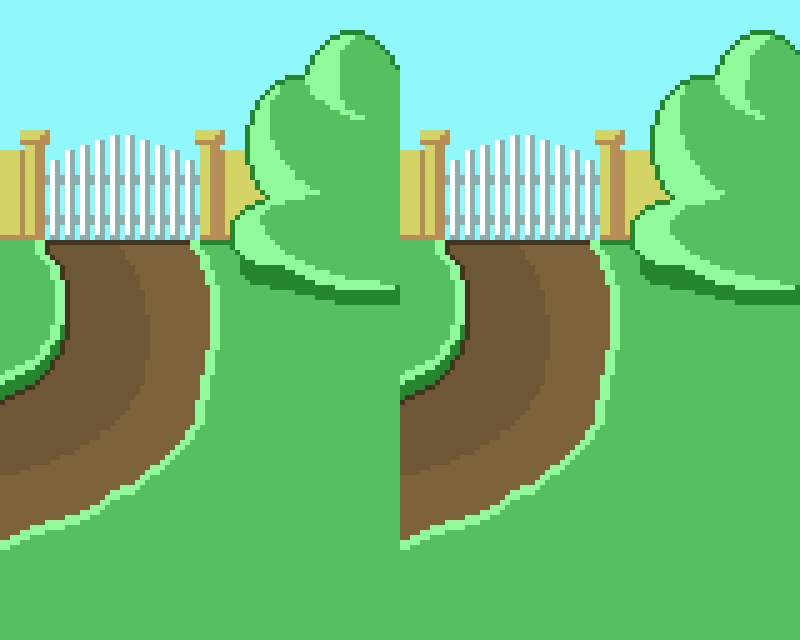
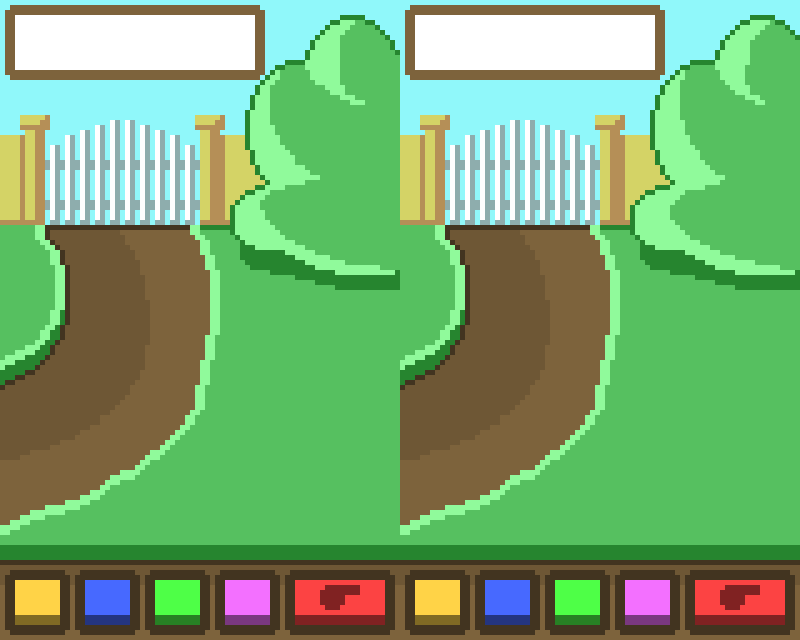
Game update
Creation des boutons, mise en place des événements et du game over

diff --git a/Ti_Game/index.html b/Ti_Game/index.html
@@ -5,9 +5,10 @@
 	<title>Ti Game</title>
 <style type="text/css">
 *{padding:0; margin:0;}
-body{background-color: #CF9FB8;
+body{background-color: #7A3880;
 	height:100vh; width: 100vw;
 	overflow: hidden;
+	transition:0.5s;
 }
 canvas{
     image-rendering: optimizeSpeed;
@@ -23,12 +24,12 @@ canvas#game {
 	transform: translate(-50%,-50%);
 	width: auto; height: auto;
 	max-width: 90vw; max-height:90vh;
-	border: 7px solid #7D349B;
+	border: 7px solid #eee;
     background-image:url("Img/Loader.png");
     background-repeat: no-repeat;
     background-position: 50% 50%;
     background-size: 90% auto;
-    background-color: #90F8FA;
+    background-color: #423420;
 }
 
 </style>
@@ -42,44 +43,64 @@ canvas#game {
 var canvas = document.getElementById("game");
 var ctx = canvas.getContext("2d");
 
+/* Canvas Onclick position */
+function getMousePos(canvas, evt) {
+    var rect = canvas.getBoundingClientRect();
+    return {
+      x: evt.clientX - rect.left,
+      y: evt.clientY - rect.top
+    };
+}
+canvas.addEventListener('click', function(evt) {
+    game_Event(getMousePos(canvas, evt));
+}, false);
+
 
 
 /* Images loading */
-var nbImgLoaded = 0, nbImg = 2;
+var nbImgLoaded = 0, nbImg = 3;
 
 var background_Img = new Image();
 var dog_Img = new Image();
+var color_Img = new Image();
 
 background_Img.onload = () => imgIsLoaded();
 dog_Img.onload = () => imgIsLoaded();
+color_Img.onload = () => imgIsLoaded();
 
 background_Img.src = 'Img/Background.png'; // https://qmisslin.github.io/Ti_Game/
 dog_Img.src = 'Img/Dog.png';
+color_Img.src = 'Img/Color.png';
 
 function imgIsLoaded(){
 	nbImgLoaded++;
 	if(nbImgLoaded == nbImg){
-		window.setTimeout(function (){ game_Loop()}, 0);
+		window.setTimeout(function (){ game_Loop()}, 1000);
 	}
 }
 
 /* Game */
 var game_Frame = 0;
-var background_Frame = 0;
-var dog_Frame = 0;
-
 var game_Speed = 100;
+
+var background_Frame = 0;
 var background_Speed = 25;
+
+var dog_Frame = 0;
 var dog_Speed = 5;
 var dog_Pos = {x:-165, y:0, d:1};
+
+var color_Frame = 0;
+var color_Speed = 100;
+var color_Value = 0;
 
 function randomInt(min, max){
 	return Math.floor(Math.random()*(max-min))+min;
 }
 function game_Loop(){
 	window.setTimeout(function (){
-		game_Frame = (game_Frame+1)%game_Speed;
-
+		
+		/* Background animation */
 		if(game_Frame%background_Speed === 0){
 			background_Frame=(background_Frame+1)%2;
 		}
@@ -90,19 +111,69 @@ function game_Loop(){
 			dog_Pos.x += -(dog_Pos.d*2-1)*15;
 		}
 		if(dog_Pos.x < -160 || dog_Pos.x > 400){
-			dog_Pos.y = randomInt(200,520);//200~520
+			
 			dog_Pos.d = (dog_Pos.d === 0)?1:0;
-			dog_Pos.x = (dog_Pos.d === 0)?-160:400;
+			if(dog_Pos.d === 0){
+				dog_Pos.x = -160;
+				dog_Pos.y = randomInt(140,445);//140~445
+			} else {
+				dog_Pos.x = 400;
+				dog_Pos.y = randomInt(185,445);//200~445
+			}
 		}
-		
 
-		ctx.drawImage(background_Img, 400 * background_Frame, 0, 400, 640, 0, 0, 400, 640);
-		ctx.drawImage(dog_Img, dog_Pos.d * 160,160 * dog_Frame, 160, 160, dog_Pos.x, dog_Pos.y, 160, 160);
 
-		window.requestAnimationFrame(game_Loop);
+		/* Color print animation */
+		if(game_Frame%color_Speed === 0){
+			color_Value = randomInt(0,16);
+		}
+
+		if(dog_Pos.x > 150 && dog_Pos.y < 185){
+			console.log("game over");
+
+		} else {
+			ctx.drawImage(background_Img, 400 * background_Frame, 0, 400, 640, 0, 0, 400, 640);
+			ctx.drawImage(dog_Img, dog_Pos.d * 160,160 * dog_Frame, 160, 160, dog_Pos.x, dog_Pos.y, 160, 160);
+			ctx.clearRect(15,15,240,55);
+			
+			/* Timer range */
+			ctx.fillStyle="rgb("+(255*game_Frame/100)+","+(255-255*(game_Frame/100))+",20)";
+			ctx.fillRect(15,65,240-(240*game_Frame/100),5);
+			ctx.drawImage(color_Img, 240 * (color_Value%4), 50 * Math.floor(color_Value/4),240,50,15,15,240,50);
+
+			window.requestAnimationFrame(game_Loop);
+		}
+
+		/* Increment game frame */
+		game_Frame = (game_Frame+1)%game_Speed;
 	}, 10);
 }
 
+function game_Event(mouse){
+	console.log(mouse);
+	if(mouse.y > 480){
+		if(mouse.x < 65){ // Yellow button
+			console.log("yellow");
+			document.body.style.backgroundColor = "#806A24";
+
+		} else if(mouse.x < 125){ // Blue button
+			console.log("blue");
+			document.body.style.backgroundColor = "#243580";
+
+		} else if(mouse.x < 185){ // Green button 
+			console.log("green");
+			document.body.style.backgroundColor = "#278024";
+
+		} else if(mouse.x < 240){ // Pink button
+			console.log("pink");
+			document.body.style.backgroundColor = "#7A3880";
+
+		} else { // Red button 
+			console.log("red");
+			document.body.style.backgroundColor = "#802222";
+		}
+	}
+}
 
 
 
